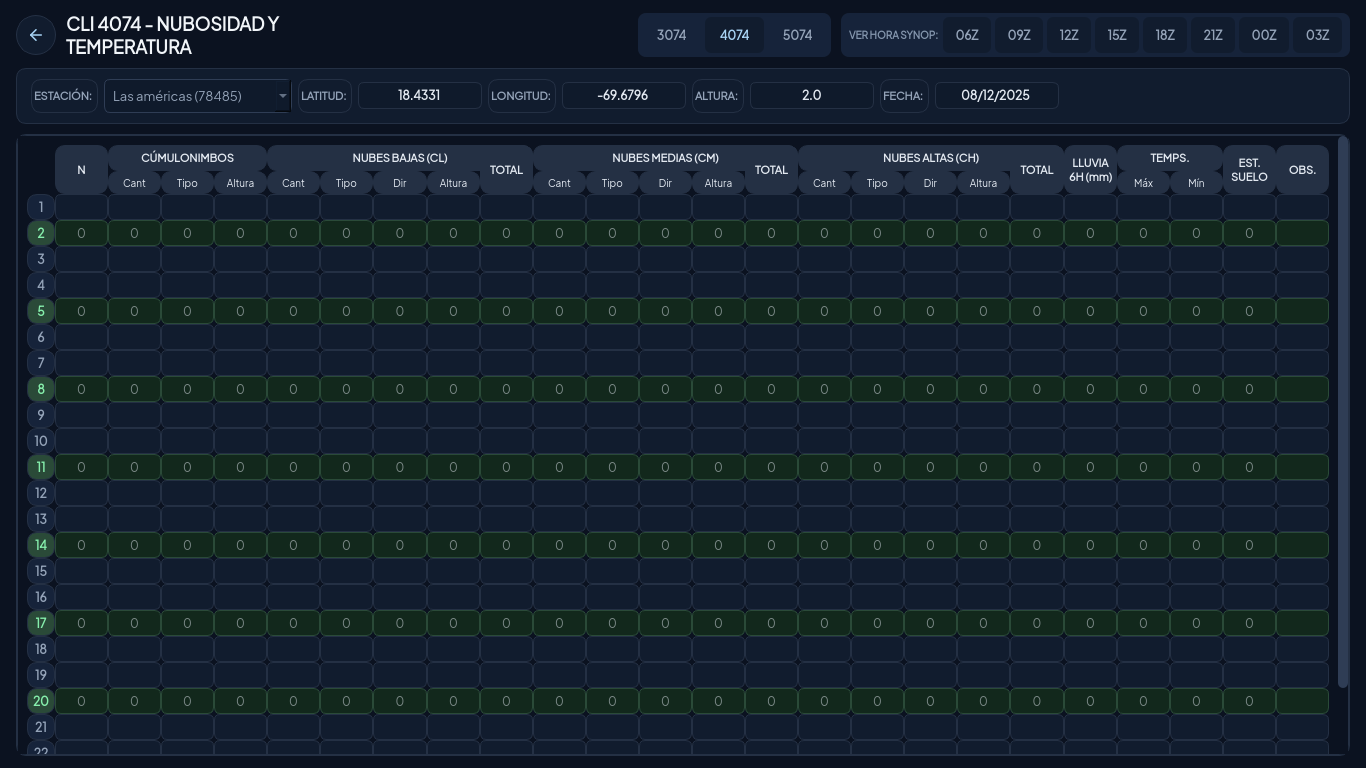
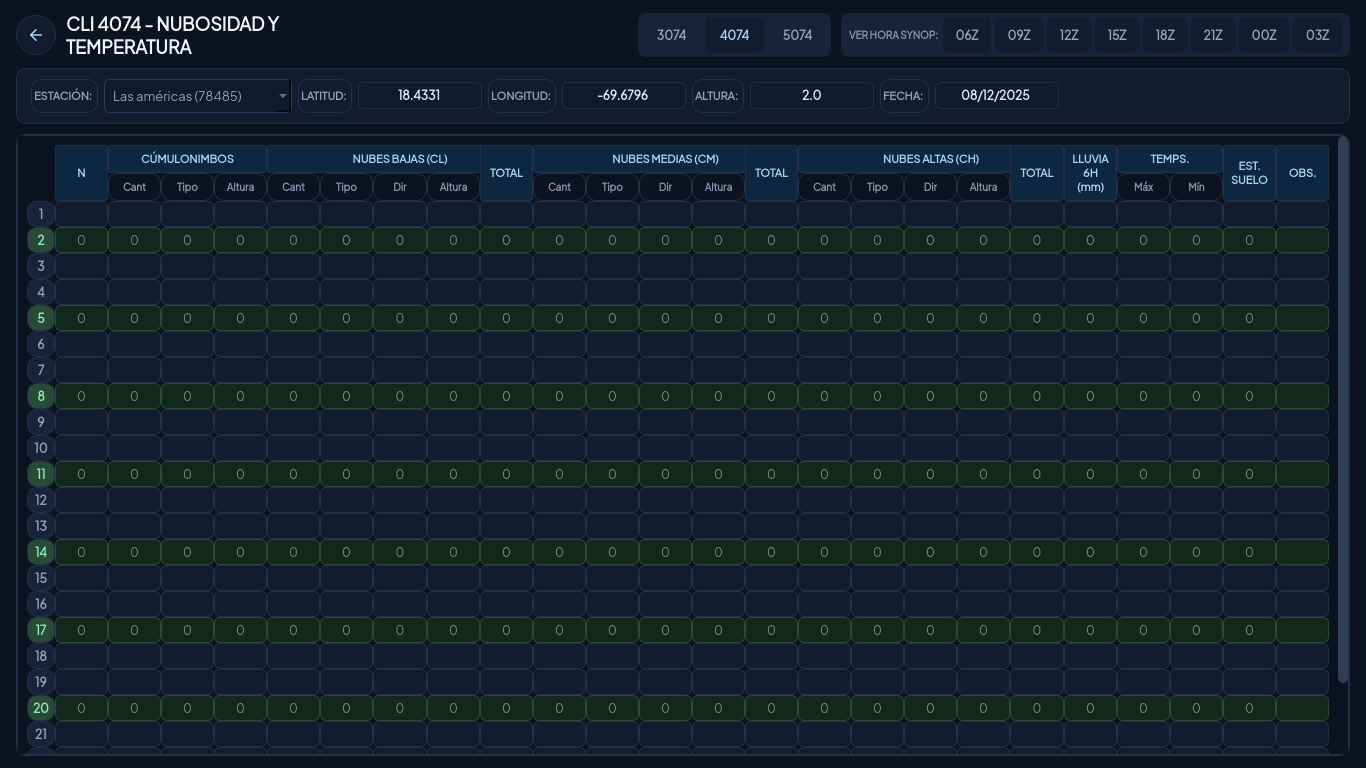
feat(cli): las tres hojas con la jerarquía de la línea gráfica
Mismo criterio que el Sinóptico, aplicado a 3074, 4074 y 5074:

- **Encabezado de grupo** (nivel 2): de banda oscura sólida a tinte de acento
  con texto fuerte (`$acento_suave` + `$acento_texto`).
- **Sub-encabezado** (`HORAS`, `MINUTOS`, `Esta.`, `NMM`…): deja el relleno
  oscuro y queda como texto sobre el fondo, en `$suave_alt`.
- **Rótulos verticales del 3074**: pasan del relleno sólido al tinte, con el
  texto en `$acento_texto`; se pintan en su `paintEvent`, así que se resuelve
  el color con `_qss()` en el momento de pintar.
- **Botón de guardar**: `$acento` con `$sobre_acento`.
- **Radios**: 4 y 5 px a 3, el escalón de campos y celdas de la escala.

**El 5074 conserva su identidad roja**: su encabezado usa el tinte de la
familia de error (`$error_suave` + `$error_fuerte`) en vez del acento global.
Sin eso, el bloque de fenómenos perdía la señal que lo distingue; lo mostraron
dos tests que fijaban el rojo.

**Y el 5074 no pintaba su propia página**: tenía `background: transparent`, así
que fuera del stack del armazón quedaba sin fondo y la captura la mostraba
negra. Ahora pinta `$fondo` como las otras dos.

Los tests que fijaban el relleno sólido se migran a los tokens del nivel 2.

849 passed, EXIT=0, verificado en claro y oscuro.

Changed region(s): [[0.0, 0.4688, 0.9839, 0.9688], [0.0, 0.1875, 0.9531, 0.3438], [0.0, 0.375, 0.9531, 0.4375]]

diff --git a/oms_ui/pages/cli3074.py b/oms_ui/pages/cli3074.py
@@ -98,11 +98,11 @@ _MAIN_STICKY_TINT = "$acento_suave"   # celdas de número fijo
 #: owner round 8: EVERY group header in the same muted slate as HUMEDAD.
 #: Cabecera de grupo: banda oscura con texto claro en ambos temas (S5).
 _HEADER_QSS = (
-    "background-color: $banda; color: $banda_texto; font-weight: bold;"
-    "font-size: 11px; padding: 5px 4px;"
+    "background-color: $acento_suave; color: $acento_texto; font-weight: 700;"
+    "font-size: 11px; padding: 6px 4px; border-radius: 3px;"
 )
 _SUB_HEADER_QSS = (
-    "background-color: $banda; color: $banda_texto; font-weight: 600;"
+    "background-color: transparent; color: $suave_alt; font-weight: 700;"
     "font-size: 10px; padding: 4px 2px;"
 )
 INPUT_QSS = (
@@ -125,7 +125,7 @@ _MAIN_RO_QSS = (
 )
 _CHECKBOX_QSS = (
     "QCheckBox::indicator { width: 17px; height: 17px;"
-    "border: 2px solid $suave_alt; border-radius: 4px; background-color: $superficie; }"
+    "border: 2px solid $suave_alt; border-radius: 3px; background-color: $superficie; }"
     "QCheckBox::indicator:hover { border-color: $acento_texto; }"
     "QCheckBox::indicator:checked { background-color: $acento;"
     "border-color: $acento_texto; }"
@@ -133,7 +133,7 @@ _CHECKBOX_QSS = (
 )
 _MAIN_CHECKBOX_QSS = (
     "QCheckBox::indicator { width: 17px; height: 17px;"
-    "border: 2px solid $suave_alt; border-radius: 4px; background-color: $acento_fondo; }"
+    "border: 2px solid $suave_alt; border-radius: 3px; background-color: $acento_fondo; }"
     "QCheckBox::indicator:hover { border-color: $acento_texto; }"
     "QCheckBox::indicator:checked { background-color: $acento;"
     "border-color: $acento_texto; }"
@@ -159,7 +159,7 @@ QLineEdit[row="main"][ro="true"] { background-color: $acento_suave;
    rules only when the base `::indicator` block exists */
 QCheckBox { background-color: transparent; }
 QCheckBox::indicator { width: 17px; height: 17px;
-    border: 2px solid $suave_alt; border-radius: 4px; background-color: $superficie; }
+    border: 2px solid $suave_alt; border-radius: 3px; background-color: $superficie; }
 QCheckBox::indicator:hover { border-color: $acento_texto; }
 QCheckBox::indicator:checked { background-color: $acento;
     border-color: $acento_texto; }
@@ -171,14 +171,14 @@ QCheckBox#checkMain::indicator:checked { background-color: $acento; }
 QLabel { background: transparent; }
 QLabel#hourMain { background-color: $acento_suave; color: $acento_texto;
     font-weight: bold; font-size: 12px; padding: 4px 6px;
-    border-radius: 4px; }
+    border-radius: 3px; }
 QLabel#hourSub { background-color: $panel; color: $suave;
     font-weight: bold; font-size: 12px; padding: 4px 6px;
-    border-radius: 4px; }
+    border-radius: 3px; }
 """
 
 _SAVE_QSS = (
-    "QPushButton { background-color: $acento; color: $banda_texto;"
+    "QPushButton { background-color: $acento; color: $sobre_acento;"
     "border: none; border-radius: 8px; padding: 7px 14px;"
     "font-weight: 700; font-size: 12px; }"
     "QPushButton:hover { background-color: $acento_hover; }"
@@ -202,7 +202,7 @@ class _VerticalLabel(QLabel):
     def paintEvent(self, event) -> None:
         painter = QPainter(self)
         painter.setRenderHint(QPainter.RenderHint.Antialiasing)
-        painter.fillRect(self.rect(), QColor(_qss("$banda")))
+        painter.fillRect(self.rect(), QColor(_qss("$acento_suave")))
         painter.translate(0, self.height())
         painter.rotate(-90)
         painter.setPen(QColor(_qss("$borde")))

diff --git a/oms_ui/pages/cli5074.py b/oms_ui/pages/cli5074.py
@@ -104,12 +104,14 @@ _SECTION_QSS = (
 _LABEL_QSS = (
     "color: $suave; font-weight: 600; font-size: 11px; background: transparent;"
 )
+#: El 5074 mantiene su identidad roja: el encabezado es tinte de la familia
+#: de error, no el acento global. Es el nivel 2 de la jerarquía.
 _HEADER_QSS = (
-    "background-color: {color}; color: $banda_texto; font-weight: bold;"
-    "font-size: 11px; padding: 5px 4px;"
+    "background-color: $error_suave; color: $error_fuerte; font-weight: 700;"
+    "font-size: 11px; padding: 6px 4px; border-radius: 3px;"
 )
 _SUB_HEADER_QSS = (
-    "background-color: $banda; color: $banda_texto; font-weight: 600;"
+    "background-color: transparent; color: $suave_alt; font-weight: 700;"
     "font-size: 10px; padding: 4px 2px;"
 )
 _INPUT_QSS = (
@@ -166,7 +168,7 @@ class Cli5074View(QWidget):
         self.fecha = fecha
         self.setWindowTitle(self.TITLE)
         # transparent: the page's hourly gradient shows through (round 6)
-        self.setStyleSheet("background: transparent;")
+        self.setStyleSheet(_qss("background-color: $fondo;"))
 
         self.fields: dict[str, QLineEdit] = {}
         self.feno_inputs: dict[int, dict[str, QLineEdit]] = {}
@@ -186,7 +188,7 @@ class Cli5074View(QWidget):
 
     def _build(self) -> None:
         central = QWidget()
-        central.setStyleSheet("background: transparent;")
+        central.setStyleSheet(_qss("background-color: $fondo;"))
         outer = QVBoxLayout(central)
         outer.setContentsMargins(16, 12, 16, 12)
         outer.setSpacing(10)

diff --git a/oms_ui/pages/cli4074.py b/oms_ui/pages/cli4074.py
@@ -96,7 +96,7 @@ _MAIN_INPUT_QSS = (
 )
 _CHECKBOX_QSS = (
     "QCheckBox::indicator { width: 17px; height: 17px;"
-    "border: 2px solid $suave_alt; border-radius: 4px; background-color: $superficie; }"
+    "border: 2px solid $suave_alt; border-radius: 3px; background-color: $superficie; }"
     "QCheckBox::indicator:hover { border-color: $ok; }"
     "QCheckBox::indicator:checked { background-color: $ok;"
     "border-color: $ok_texto; }"
@@ -108,15 +108,15 @@ INPUT_QSS = (
     "QLineEdit:focus { border-color: $acento; background-color: $acento_fondo; }"
 )
 _HEADER_QSS = (
-    "background-color: $banda; color: $banda_texto; font-weight: bold;"
-    "font-size: 11px; padding: 5px 3px;"
+    "background-color: $acento_suave; color: $acento_texto; font-weight: 700;"
+    "font-size: 11px; padding: 6px 4px; border-radius: 3px;"
 )
 _SUB_HEADER_QSS = (
-    "background-color: $banda; color: $banda_texto; font-weight: 600;"
+    "background-color: transparent; color: $suave_alt; font-weight: 700;"
     "font-size: 10px; padding: 4px 2px;"
 )
 _SAVE_QSS = (
-    "QPushButton { background-color: $acento; color: $banda_texto;"
+    "QPushButton { background-color: $acento; color: $sobre_acento;"
     "border: none; border-radius: 8px; padding: 7px 14px;"
     "font-weight: 700; font-size: 12px; }"
     "QPushButton:hover { background-color: $acento_hover; }"

diff --git a/tests/test_f4_ui.py b/tests/test_f4_ui.py
@@ -1147,7 +1147,7 @@ def test_fenomenos_abbreviations_render_dark_chips(cli3074_page, qtbot):
     pix = gr.grab()
     color = pix.toImage().pixelColor(3, 3).name()
     # El chip oscuro se pinta de verdad, con el rol banda del tema activo.
-    assert color == theme.palette_actual()["banda"]
+    assert color == theme.palette_actual()["acento_suave"]
 
 
 # ---------------------------------------------------------------- round 8 details
@@ -1219,7 +1219,7 @@ def test_cli3074_group_headers_uniform_slate(cli3074_page, qtbot):
     assert "$" not in hoja, "la cabecera de grupo no puede llegar sin resolver"
     from oms_ui import theme
 
-    assert theme.palette_actual()["banda"] in hoja
+    assert theme.palette_actual()["acento_texto"] in hoja
 
 
 def test_cli4074_total_headers_full_height_emerald(cli3074_page, qtbot):
